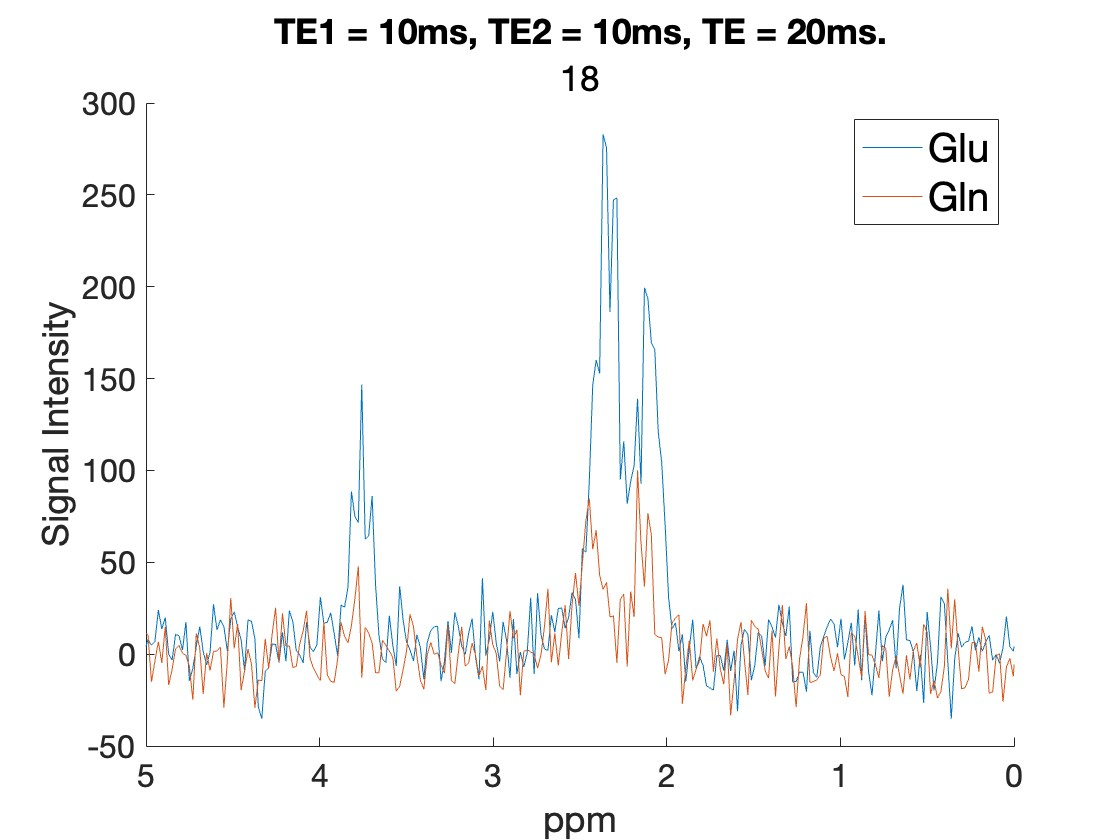
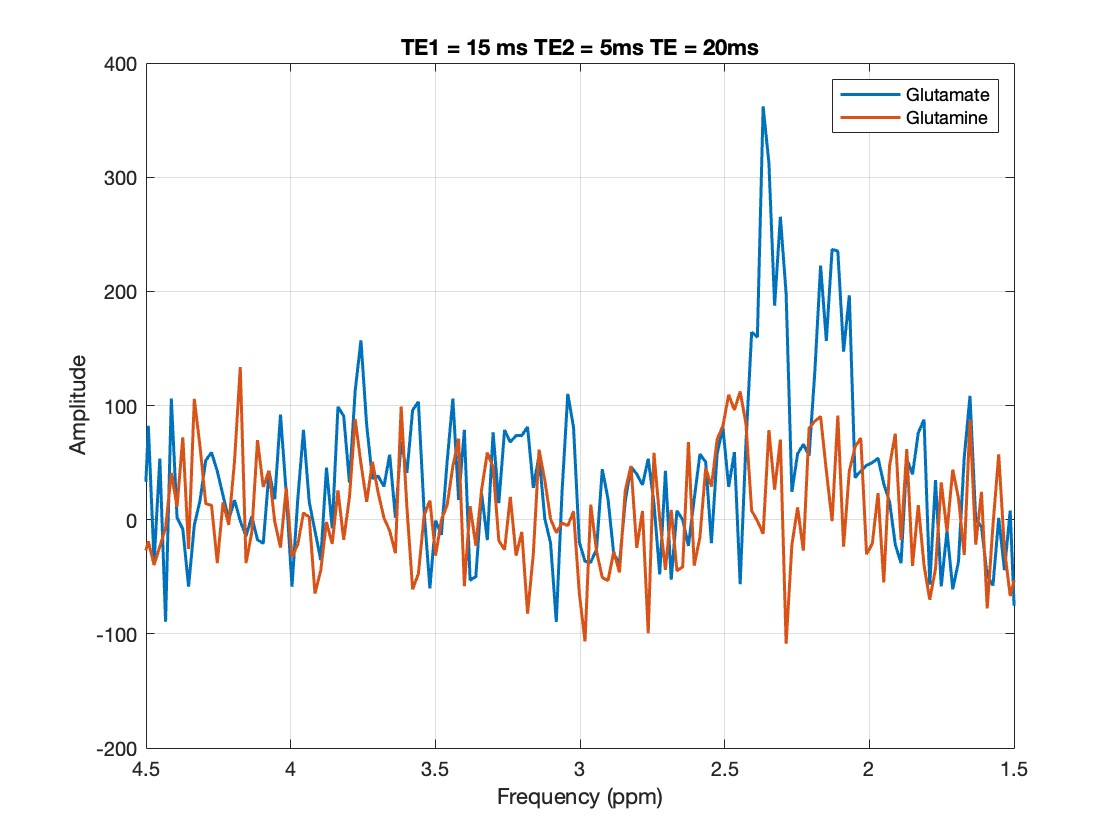
Updates to results

diff --git a/Aim 1/Single-TE & Short TE/CRLB_estimation_03A_Glu_Gln.m b/Aim 1/Single-TE & Short TE/CRLB_estimation_03A_Glu_Gln.m
@@ -1,3 +1,5 @@
+% in CRLB_estimation_03A_Glu_Gln, add capability to change spectral width,
+% to be compabible with the hybrid version
 % CRLB_estimation_03_Glu_Gln.m for estimating CRLB's for simulated spectra
 % for Glutamate and Glutamine from SpinWizard
 
@@ -5,7 +7,8 @@
 % Version 1
 %%%%%%%%%%%%%%%%%%%%%%%%%%%%%%%%%%%%%%%%%%%%%%%%%%%%%%%%%%%%%%%%%%%%%%%
 
-function [FID, SequenceDiagram] = CRLB_estimation_03A_Glu_Gln()
+
+function [FID, SequenceDiagram] = CRLB_estimation_03C_Glu_Gln()
 
 % figure(10); clf; figure(11); clf; figure(12); clf;
 
@@ -18,15 +21,17 @@ all_data{1,2} = load('master_data_gln.mat');
 % all_data{1,4} = load('master_data_GSH.mat');
 npoints = 2048;
 
+
+SimPars.specband = [0 5];           %Spectral band to consider for concatenating********************
 %%
 SimPars.maxCRLB = 40;      % Maximum CRLB (%) for display purposes
+
 
 SimPars.sw = all_data{1,1}.master_data.handles.SpectralWidth*1e3;   %spectral width in Hz
 SimPars.dt = 1/SimPars.sw;          % Dwell time (s)
 SimPars.npzf = npoints;                % Number of spectral points
 SimPars.np = npoints;                % Number of spectral points
 
-SimPars.specband = [0 5];           %Spectral band to consider 
 
 SimPars.amp = 1;                    % Relative amplitude
 SimPars.lw = 10;                    % Linewidth (in Hz) must be larger than spectral linewidth ( = 4 Hz)
@@ -40,11 +45,11 @@ SimPars.R2 = -1/SimPars.T2;         % R2 relaxation rate (in Hz)
 SimPars.T2_2 = 0.18;
 SimPars.R2_2 = 1/SimPars.T2_2;      % R2 relaxation rate (in Hz)
 
+
 SimPars.TE1_values = size(all_data{1,1}.master_data.TE1_array,2);
 SimPars.TE2_values = size(all_data{1,1}.master_data.TE2_array,2);
 
-
-noise_sw = 0.0045;                          % Noise level per sqrt(spectral width)
+noise_sw = 0.015;
 SimPars.noise = noise_sw*sqrt(SimPars.sw);  % FID noise level
 SimPars.noise = SimPars.noise/1;
 
@@ -63,73 +68,73 @@ for TE1=1:SimPars.TE1_values
     end
 end
 
+
 % Time-domain axis, dimension 1
 t = 0:SimPars.dt:(SimPars.npzf-1)*SimPars.dt;
 
+
 ff = -(SimPars.sw/2):(SimPars.sw/(SimPars.npzf-1)):(SimPars.sw/2);
-freq = ff./all_data{1,1}.master_data.handles.LarmorFrequency + all_data{1,1}.master_data.handles.RFOffsetRx;
+freq = ff./all_data{1,1}.master_data.handles.LarmorFrequency + all_data{1,1}.master_data.handles.RFOffsetRx;        %***********
+spec_span = find(freq>SimPars.specband(1,1) & freq<SimPars.specband(1,2));  %find coordinates on freq vector, corresponding to the frequency span of interest (in ppm) ***********
+new_sw = all_data{1,1}.master_data.handles.LarmorFrequency.*(SimPars.specband(1,2) - SimPars.specband(1,1)); % ************
+dtnew = 1/new_sw;          % Dwell time of truncated data
+
+
 
 S = 0;
 T2mod = exp(SimPars.R2*t');
 
-delta = 0.00;
-ppm_hi(1,1)= 2.45-delta;
-ppm_low(1,1)= 2.25+delta;   %GluH4
 
-ppm_hi(1,2)= 2.55-delta;
-ppm_low(1,2)= 2.35+delta;   %GlnH4
 
-ppm_hi(1,3)= 2.4-delta;
-ppm_low(1,3)= 2.2+delta;   %GABAH4
-
-ppm_hi(1,4)= 2.64-delta;
-ppm_low(1,4)= 2.44+delta;   %GSHH4
 
 TE1_array = all_data{1,1}.master_data.TE1_array;
 TE2_array = all_data{1,1}.master_data.TE2_array;
 num_TE1_values = size(TE1_array,2);
 
-% TE1_indx = 6; % SINGLE TE (35ms)
-% TE2_indx = 6;
 
-%TE1_indx = 1; % SHORT TE (10ms)
-% TE2_indx = 1;
 
-TE1_indx = 8; % SHORT TE (20ms)
-TE2_indx = 8;
+TE1_indx = 1;
+TE2_indx = 1;
 
-TE1 = TE1_array(1, TE1_indx);
+TE1 = TE1_array(1, 9);
 
-TE2 = TE2_array(1, TE2_indx);
+TE2 = TE2_array(1, 9);
 TE = TE1 + TE2;
 
-Specs_with_noise(:,1)=  SpecAll_with_noise(:,TE1_indx,TE2_indx, 1);     %Glutamate spec with noise for visualization purposes
-Specs_with_noise(:,2)=  SpecAll_with_noise(:,TE1_indx,TE2_indx, 2);     %Glutamin spec with noise for visualization purposes
+% Display TE values
+disp('-------------------------------------------');
+disp(['TE1 = ' num2str(TE1) ' ms']);
+disp(['TE2 = ' num2str(TE2) ' ms']);
+disp(['Total TE = ' num2str(TE) ' ms']);
+disp('-------------------------------------------');
 
-Specs(:,1)=  SpecAll(:,TE1_indx,TE2_indx, 1);     %Glutamate spec without noise
-Specs(:,2)=  SpecAll(:,TE1_indx,TE2_indx, 2);     %Glutamin spec without noise
+FIDS_no_noise(:,1)=  SpecAll(:,TE1_indx,TE2_indx, 1);     %Glutamate spec without noise
+FIDS_no_noise(:,2)=  SpecAll(:,TE1_indx,TE2_indx, 2);     %Glutamin spec without noise
 
-figure(10); clf; 
-hold on; plot(freq, real(fftshift(fft(squeeze(Specs_with_noise(:,1))))));     %plot Glutamate
-hold on; plot(freq, real(fftshift(fft(squeeze(Specs_with_noise(:,2))))));     %plot Glutamate
-set(gca, 'XDir', 'reverse'); xlim ([0 5]);
-legend('Glu', 'Gln');
-title(['TE1 = ' num2str(TE1) 'ms, TE2 = ' num2str(TE2) 'ms, TE = ' num2str(TE) 'ms.'], 18);
 
-% Adjust font sizes for better readability
-set(gca, 'FontSize', 16);           % Axis tick labels
-xlabel('ppm', 'FontSize', 18);      % X-axis label
-ylabel('Signal Intensity', 'FontSize', 18); % Y-axis label
-legend('Glu', 'Gln', 'FontSize', 20); % Legend font size
+temp1 = fftshift(fft(squeeze(FIDS_no_noise(:, 1).*exp(-SimPars.R2_2*TE*1e-3))));
+temp2 = fftshift(fft(squeeze(FIDS_no_noise(:, 2).*exp(-SimPars.R2_2*TE*1e-3))));
 
-D = zeros(SimPars.np,2*SimPars.ncompounds);
+temp1 = reshape(temp1(spec_span),1, []);
+temp2 = reshape(temp2(spec_span),1, []);
+
+Glu_FID_truncated = ifft(ifftshift(temp1));
+Gln_FID_truncated = ifft(ifftshift(temp2));
+
+FIDs_all_concat = reshape(Glu_FID_truncated,[],1);
+FIDs_all_concat(:,2) = reshape(Gln_FID_truncated,[],1);
+
+npoints_new = size(temp1,2);
+t_new = 0:dtnew:(npoints_new-1)*dtnew;
+
+D = zeros(npoints_new,2*SimPars.ncompounds);
 for comp =1: SimPars.ncompounds
 
     % Derivative to amplitude
-    D(:,2*comp-1) = reshape(Specs(:, comp),1,[]).*exp(SimPars.R2*t).*exp(-SimPars.R2_2*TE*1e-3);
+    D(:,2*comp-1) = reshape(FIDs_all_concat(:, comp),1,[]).*exp(SimPars.R2*t_new);
 
     % Derivative to relaxation rate
-    D(:,2*comp-0) = SimPars.amp*reshape(Specs(:,  comp),1,[]).*exp(SimPars.R2*t).*t.*exp(-SimPars.R2_2*TE*1e-3);
+    D(:,2*comp-0) = SimPars.amp*reshape(FIDs_all_concat(:,  comp),1,[]).*exp(SimPars.R2*t_new).*t_new;
 end
 
 % Calculate Fisher matrix
@@ -152,48 +157,50 @@ disp(['Glu CRLB =' num2str(CRLBamp1D(1,TE1_indx,TE2_indx)) '%']);
 disp(['Gln CRLB =' num2str(CRLBamp1D(2,TE1_indx,TE2_indx)) '%']);
 %%
 
+%% --- SNR and Linewidth Calculations (based on frequency-domain signal) ---
 
+% Extract FFT of spectra with noise for selected TE pair
+spec_fft_glu = fftshift(fft(SpecAll_with_noise(:, TE1_indx, TE2_indx, 1)));
+spec_fft_gln = fftshift(fft(SpecAll_with_noise(:, TE1_indx, TE2_indx, 2)));
 
-%% --- SNR and Linewidth Calculations ---
-
-% FFT of spectra
-spec_fft_glu = real(fftshift(fft(Specs_with_noise(:,1))));
-spec_fft_gln = real(fftshift(fft(Specs_with_noise(:,2))));
-
-% --- Define signal and noise windows (adjust as needed) ---
-% Noise assumed at >9.5 ppm, where no metabolite peaks are expected
-noise_window = freq > 5;
-signal_window_glu = (freq > ppm_low(1,1)) & (freq < ppm_hi(1,1));
-signal_window_gln = (freq > ppm_low(1,2)) & (freq < ppm_hi(1,2));
-
-%% --- SNR Calculation (restricted to 0–5 ppm) ---
-
-% FFT of spectra
-spec_fft_glu = real(fftshift(fft(Specs_with_noise(:,1))));
-spec_fft_gln = real(fftshift(fft(Specs_with_noise(:,2))));
-
-% Restrict frequency range to 0–5 ppm
+% Define spectral span from 0–5 ppm
 spec_span = find(freq > SimPars.specband(1) & freq < SimPars.specband(2));
 freq_trimmed = freq(spec_span);
 spec_fft_glu_trimmed = spec_fft_glu(spec_span);
 spec_fft_gln_trimmed = spec_fft_gln(spec_span);
 
-% Define signal and noise windows within the 0–5 ppm range
-signal_window_glu = (freq_trimmed > 2.25) & (freq_trimmed < 2.35);  % Glu H4
-signal_window_gln = (freq_trimmed > 2.35) & (freq_trimmed < 2.45);  % Gln H4
-noise_window = (freq_trimmed > 4.9);  % baseline near 5 ppm
+% Define metabolite signal regions based on known peak locations (Glu ≈ 2.30 ppm, Gln ≈ 2.40 ppm)
+signal_window_glu = (freq_trimmed > 2.20) & (freq_trimmed < 2.45);  % Glu H4
+signal_window_gln = (freq_trimmed > 2.20) & (freq_trimmed < 2.45);  % Gln H4
 
-% Calculate signal and noise
+% Define noise window (assume noise-only region near 5 ppm)
+noise_window = (freq_trimmed > 4.9);  % Ensure this is far from any known peaks
+
+% Peak signal amplitude
 max_signal_glu = max(abs(spec_fft_glu_trimmed(signal_window_glu)));
 max_signal_gln = max(abs(spec_fft_gln_trimmed(signal_window_gln)));
-noise_std = std(spec_fft_glu_trimmed(noise_window));  % assume same baseline noise for both
 
-% Compute SNR
+% Estimate noise level using standard deviation in noise region
+noise_std = std(real(spec_fft_glu_trimmed(noise_window)));
+
+% Compute SNRs as peak amplitude / noise standard deviation
 SNR_glu = max_signal_glu / noise_std;
 SNR_gln = max_signal_gln / noise_std;
 
 % Display results
 disp('-------------------------------------------');
-disp(['SNR (Glutamate) = ' num2str(SNR_glu)]);
-disp(['SNR (Glutamine) = ' num2str(SNR_gln)]);
+disp(['SNR (Glutamate) = ' num2str(SNR_glu, '%.2f')]);
+disp(['SNR (Glutamine) = ' num2str(SNR_gln, '%.2f')]);
 disp('-------------------------------------------');
+
+% Plot Glu and Gln on the same axis
+figure;
+plot(freq_trimmed, real(spec_fft_glu_trimmed), 'LineWidth', 1.5); hold on;
+plot(freq_trimmed, real(spec_fft_gln_trimmed), 'LineWidth', 1.5);
+set(gca, 'XDir', 'reverse');  % NMR convention: ppm increases to the left
+xlabel('Frequency (ppm)');
+ylabel('Amplitude');
+title('Overlay of Glutamate and Glutamine Spectra');
+legend({'Glutamate', 'Glutamine'});
+xlim([1.5 4.5]);  % Adjust for visibility depending on your spectrum
+grid on;
